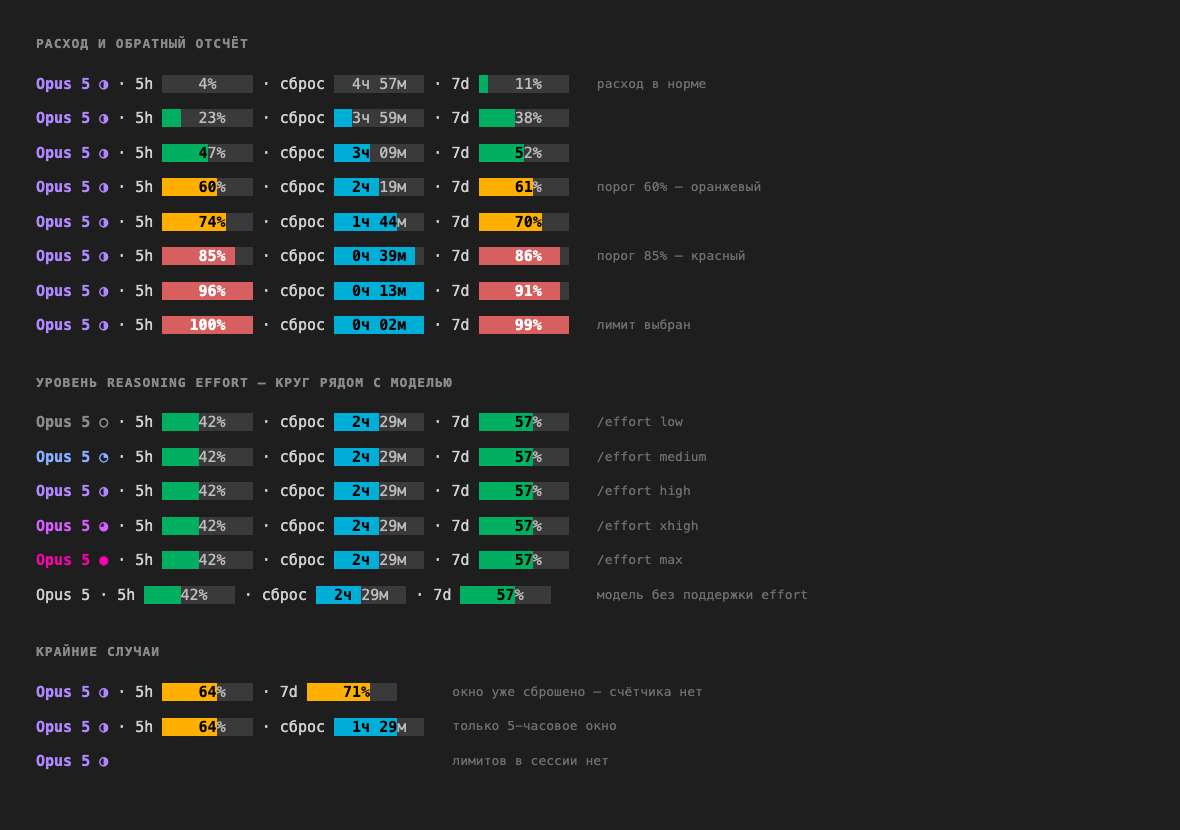
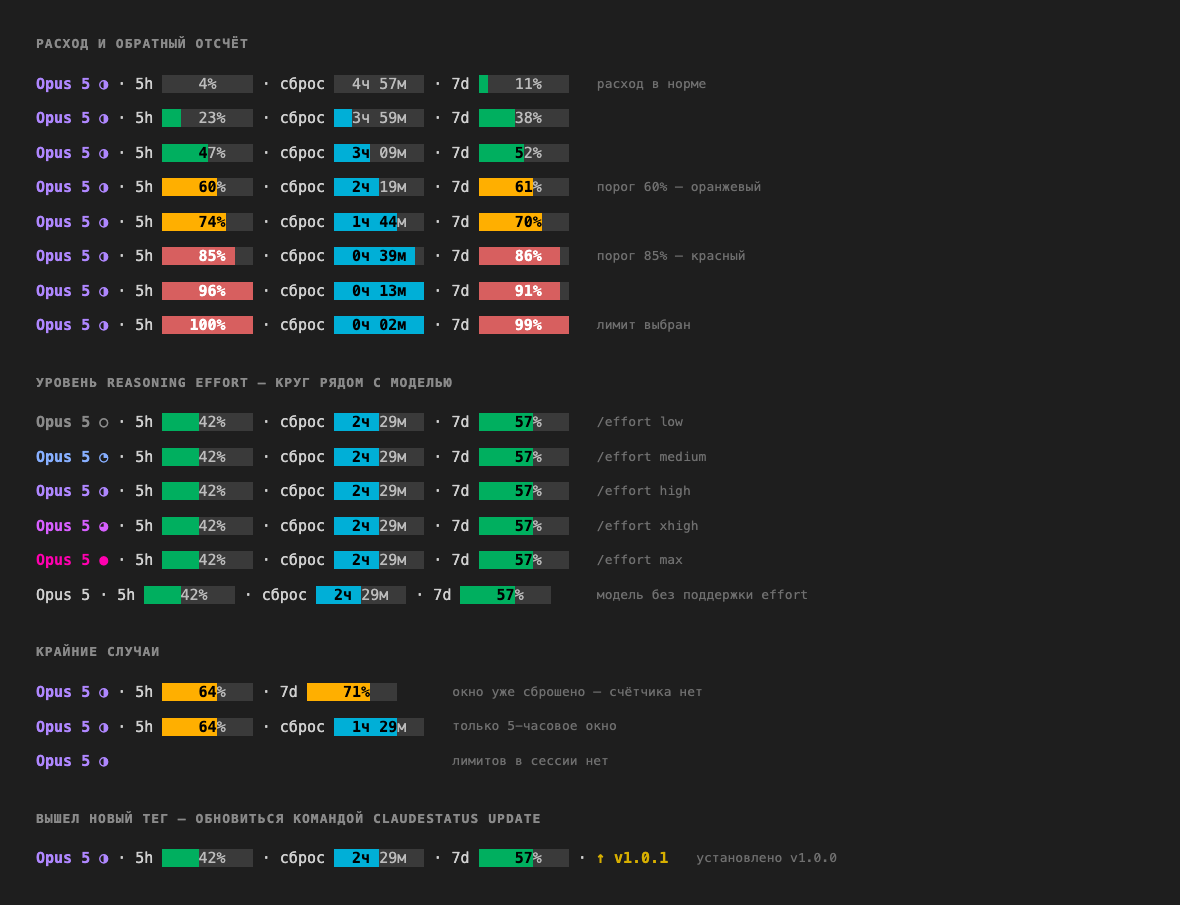
docs: показать в демо строку с новым тегом

diff --git a/docs/statusline-demo.html b/docs/statusline-demo.html
@@ -1,1 +1,1 @@
-<!doctype html><meta charset='utf-8'><title>Строка статуса — состояния</title><style>body{background:#1e1e1e;color:#d0d0d0;font:15px/1.9 'SF Mono',Menlo,monospace;padding:32px 36px;margin:0}h2{font-size:13px;font-weight:600;color:#8a8a8a;letter-spacing:.08em;text-transform:uppercase;margin:28px 0 10px}h2:first-child{margin-top:0}table{border-collapse:collapse}td{padding:3px 0;vertical-align:middle;white-space:nowrap}.note{color:#6f6f6f;font-size:13px;padding-left:28px}</style><h2>Расход и обратный отсчёт</h2><table><tr><td class="line"><span style="color:#af87ff;font-weight:700">Opus&nbsp;5&nbsp;◑</span>&nbsp;·&nbsp;5h&nbsp;<span style="color:#bcbcbc;background:#3a3a3a">&nbsp;&nbsp;&nbsp;&nbsp;4%&nbsp;&nbsp;&nbsp;&nbsp;</span>&nbsp;·&nbsp;сброс&nbsp;<span style="color:#bcbcbc;background:#3a3a3a">&nbsp;&nbsp;4ч&nbsp;57м&nbsp;&nbsp;</span>&nbsp;·&nbsp;7d&nbsp;<span style="color:#000000;background:#00af5f;font-weight:700">&nbsp;</span><span style="color:#bcbcbc;background:#3a3a3a">&nbsp;&nbsp;&nbsp;11%&nbsp;&nbsp;&nbsp;</span></td><td class="note">расход в норме</td></tr><tr><td class="line"><span style="color:#af87ff;font-weight:700">Opus&nbsp;5&nbsp;◑</span>&nbsp;·&nbsp;5h&nbsp;<span style="color:#000000;background:#00af5f;font-weight:700">&nbsp;&nbsp;</span><span style="color:#bcbcbc;background:#3a3a3a">&nbsp;&nbsp;23%&nbsp;&nbsp;&nbsp;</span>&nbsp;·&nbsp;сброс&nbsp;<span style="color:#000000;background:#00afd7;font-weight:700">&nbsp;&nbsp;</span><span style="color:#bcbcbc;background:#3a3a3a">3ч&nbsp;59м&nbsp;&nbsp;</span>&nbsp;·&nbsp;7d&nbsp;<span style="color:#000000;background:#00af5f;font-weight:700">&nbsp;&nbsp;&nbsp;&nbsp;</span><span style="color:#bcbcbc;background:#3a3a3a">38%&nbsp;&nbsp;&nbsp;</span></td><td class="note"></td></tr><tr><td class="line"><span style="color:#af87ff;font-weight:700">Opus&nbsp;5&nbsp;◑</span>&nbsp;·&nbsp;5h&nbsp;<span style="color:#000000;background:#00af5f;font-weight:700">&nbsp;&nbsp;&nbsp;&nbsp;4</span><span style="color:#bcbcbc;background:#3a3a3a">7%&nbsp;&nbsp;&nbsp;</span>&nbsp;·&nbsp;сброс&nbsp;<span style="color:#000000;background:#00afd7;font-weight:700">&nbsp;&nbsp;3ч</span><span style="color:#bcbcbc;background:#3a3a3a">&nbsp;09м&nbsp;&nbsp;</span>&nbsp;·&nbsp;7d&nbsp;<span style="color:#000000;background:#00af5f;font-weight:700">&nbsp;&nbsp;&nbsp;&nbsp;5</span><span style="color:#bcbcbc;background:#3a3a3a">2%&nbsp;&nbsp;&nbsp;</span></td><td class="note"></td></tr><tr><td class="line"><span style="color:#af87ff;font-weight:700">Opus&nbsp;5&nbsp;◑</span>&nbsp;·&nbsp;5h&nbsp;<span style="color:#000000;background:#ffaf00;font-weight:700">&nbsp;&nbsp;&nbsp;&nbsp;60</span><span style="color:#bcbcbc;background:#3a3a3a">%&nbsp;&nbsp;&nbsp;</span>&nbsp;·&nbsp;сброс&nbsp;<span style="color:#000000;background:#00afd7;font-weight:700">&nbsp;&nbsp;2ч&nbsp;</span><span style="color:#bcbcbc;background:#3a3a3a">19м&nbsp;&nbsp;</span>&nbsp;·&nbsp;7d&nbsp;<span style="color:#000000;background:#ffaf00;font-weight:700">&nbsp;&nbsp;&nbsp;&nbsp;61</span><span style="color:#bcbcbc;background:#3a3a3a">%&nbsp;&nbsp;&nbsp;</span></td><td class="note">порог 60% — оранжевый</td></tr><tr><td class="line"><span style="color:#af87ff;font-weight:700">Opus&nbsp;5&nbsp;◑</span>&nbsp;·&nbsp;5h&nbsp;<span style="color:#000000;background:#ffaf00;font-weight:700">&nbsp;&nbsp;&nbsp;&nbsp;74%</span><span style="color:#bcbcbc;background:#3a3a3a">&nbsp;&nbsp;&nbsp;</span>&nbsp;·&nbsp;сброс&nbsp;<span style="color:#000000;background:#00afd7;font-weight:700">&nbsp;&nbsp;1ч&nbsp;44</span><span style="color:#bcbcbc;background:#3a3a3a">м&nbsp;&nbsp;</span>&nbsp;·&nbsp;7d&nbsp;<span style="color:#000000;background:#ffaf00;font-weight:700">&nbsp;&nbsp;&nbsp;&nbsp;70%</span><span style="color:#bcbcbc;background:#3a3a3a">&nbsp;&nbsp;&nbsp;</span></td><td class="note"></td></tr><tr><td class="line"><span style="color:#af87ff;font-weight:700">Opus&nbsp;5&nbsp;◑</span>&nbsp;·&nbsp;5h&nbsp;<span style="color:#ffffff;background:#d75f5f;font-weight:700">&nbsp;&nbsp;&nbsp;&nbsp;85%&nbsp;</span><span style="color:#bcbcbc;background:#3a3a3a">&nbsp;&nbsp;</span>&nbsp;·&nbsp;сброс&nbsp;<span style="color:#000000;background:#00afd7;font-weight:700">&nbsp;&nbsp;0ч&nbsp;39м&nbsp;</span><span style="color:#bcbcbc;background:#3a3a3a">&nbsp;</span>&nbsp;·&nbsp;7d&nbsp;<span style="color:#ffffff;background:#d75f5f;font-weight:700">&nbsp;&nbsp;&nbsp;&nbsp;86%&nbsp;&nbsp;</span><span style="color:#bcbcbc;background:#3a3a3a">&nbsp;</span></td><td class="note">порог 85% — красный</td></tr><tr><td class="line"><span style="color:#af87ff;font-weight:700">Opus&nbsp;5&nbsp;◑</span>&nbsp;·&nbsp;5h&nbsp;<span style="color:#ffffff;background:#d75f5f;font-weight:700">&nbsp;&nbsp;&nbsp;&nbsp;96%&nbsp;&nbsp;&nbsp;</span>&nbsp;·&nbsp;сброс&nbsp;<span style="color:#000000;background:#00afd7;font-weight:700">&nbsp;&nbsp;0ч&nbsp;13м&nbsp;&nbsp;</span>&nbsp;·&nbsp;7d&nbsp;<span style="color:#ffffff;background:#d75f5f;font-weight:700">&nbsp;&nbsp;&nbsp;&nbsp;91%&nbsp;&nbsp;</span><span style="color:#bcbcbc;background:#3a3a3a">&nbsp;</span></td><td class="note"></td></tr><tr><td class="line"><span style="color:#af87ff;font-weight:700">Opus&nbsp;5&nbsp;◑</span>&nbsp;·&nbsp;5h&nbsp;<span style="color:#ffffff;background:#d75f5f;font-weight:700">&nbsp;&nbsp;&nbsp;100%&nbsp;&nbsp;&nbsp;</span>&nbsp;·&nbsp;сброс&nbsp;<span style="color:#000000;background:#00afd7;font-weight:700">&nbsp;&nbsp;0ч&nbsp;02м&nbsp;&nbsp;</span>&nbsp;·&nbsp;7d&nbsp;<span style="color:#ffffff;background:#d75f5f;font-weight:700">&nbsp;&nbsp;&nbsp;&nbsp;99%&nbsp;&nbsp;&nbsp;</span></td><td class="note">лимит выбран</td></tr></table><h2>Уровень reasoning effort — круг рядом с моделью</h2><table><tr><td class="line"><span style="color:#8a8a8a;font-weight:700">Opus&nbsp;5&nbsp;○</span>&nbsp;·&nbsp;5h&nbsp;<span style="color:#000000;background:#00af5f;font-weight:700">&nbsp;&nbsp;&nbsp;&nbsp;</span><span style="color:#bcbcbc;background:#3a3a3a">42%&nbsp;&nbsp;&nbsp;</span>&nbsp;·&nbsp;сброс&nbsp;<span style="color:#000000;background:#00afd7;font-weight:700">&nbsp;&nbsp;2ч&nbsp;</span><span style="color:#bcbcbc;background:#3a3a3a">29м&nbsp;&nbsp;</span>&nbsp;·&nbsp;7d&nbsp;<span style="color:#000000;background:#00af5f;font-weight:700">&nbsp;&nbsp;&nbsp;&nbsp;57</span><span style="color:#bcbcbc;background:#3a3a3a">%&nbsp;&nbsp;&nbsp;</span></td><td class="note">/effort low</td></tr><tr><td class="line"><span style="color:#87afff;font-weight:700">Opus&nbsp;5&nbsp;◔</span>&nbsp;·&nbsp;5h&nbsp;<span style="color:#000000;background:#00af5f;font-weight:700">&nbsp;&nbsp;&nbsp;&nbsp;</span><span style="color:#bcbcbc;background:#3a3a3a">42%&nbsp;&nbsp;&nbsp;</span>&nbsp;·&nbsp;сброс&nbsp;<span style="color:#000000;background:#00afd7;font-weight:700">&nbsp;&nbsp;2ч&nbsp;</span><span style="color:#bcbcbc;background:#3a3a3a">29м&nbsp;&nbsp;</span>&nbsp;·&nbsp;7d&nbsp;<span style="color:#000000;background:#00af5f;font-weight:700">&nbsp;&nbsp;&nbsp;&nbsp;57</span><span style="color:#bcbcbc;background:#3a3a3a">%&nbsp;&nbsp;&nbsp;</span></td><td class="note">/effort medium</td></tr><tr><td class="line"><span style="color:#af87ff;font-weight:700">Opus&nbsp;5&nbsp;◑</span>&nbsp;·&nbsp;5h&nbsp;<span style="color:#000000;background:#00af5f;font-weight:700">&nbsp;&nbsp;&nbsp;&nbsp;</span><span style="color:#bcbcbc;background:#3a3a3a">42%&nbsp;&nbsp;&nbsp;</span>&nbsp;·&nbsp;сброс&nbsp;<span style="color:#000000;background:#00afd7;font-weight:700">&nbsp;&nbsp;2ч&nbsp;</span><span style="color:#bcbcbc;background:#3a3a3a">29м&nbsp;&nbsp;</span>&nbsp;·&nbsp;7d&nbsp;<span style="color:#000000;background:#00af5f;font-weight:700">&nbsp;&nbsp;&nbsp;&nbsp;57</span><span style="color:#bcbcbc;background:#3a3a3a">%&nbsp;&nbsp;&nbsp;</span></td><td class="note">/effort high</td></tr><tr><td class="line"><span style="color:#d75fff;font-weight:700">Opus&nbsp;5&nbsp;◕</span>&nbsp;·&nbsp;5h&nbsp;<span style="color:#000000;background:#00af5f;font-weight:700">&nbsp;&nbsp;&nbsp;&nbsp;</span><span style="color:#bcbcbc;background:#3a3a3a">42%&nbsp;&nbsp;&nbsp;</span>&nbsp;·&nbsp;сброс&nbsp;<span style="color:#000000;background:#00afd7;font-weight:700">&nbsp;&nbsp;2ч&nbsp;</span><span style="color:#bcbcbc;background:#3a3a3a">29м&nbsp;&nbsp;</span>&nbsp;·&nbsp;7d&nbsp;<span style="color:#000000;background:#00af5f;font-weight:700">&nbsp;&nbsp;&nbsp;&nbsp;57</span><span style="color:#bcbcbc;background:#3a3a3a">%&nbsp;&nbsp;&nbsp;</span></td><td class="note">/effort xhigh</td></tr><tr><td class="line"><span style="color:#ff00af;font-weight:700">Opus&nbsp;5&nbsp;●</span>&nbsp;·&nbsp;5h&nbsp;<span style="color:#000000;background:#00af5f;font-weight:700">&nbsp;&nbsp;&nbsp;&nbsp;</span><span style="color:#bcbcbc;background:#3a3a3a">42%&nbsp;&nbsp;&nbsp;</span>&nbsp;·&nbsp;сброс&nbsp;<span style="color:#000000;background:#00afd7;font-weight:700">&nbsp;&nbsp;2ч&nbsp;</span><span style="color:#bcbcbc;background:#3a3a3a">29м&nbsp;&nbsp;</span>&nbsp;·&nbsp;7d&nbsp;<span style="color:#000000;background:#00af5f;font-weight:700">&nbsp;&nbsp;&nbsp;&nbsp;57</span><span style="color:#bcbcbc;background:#3a3a3a">%&nbsp;&nbsp;&nbsp;</span></td><td class="note">/effort max</td></tr><tr><td class="line">Opus&nbsp;5&nbsp;·&nbsp;5h&nbsp;<span style="color:#000000;background:#00af5f;font-weight:700">&nbsp;&nbsp;&nbsp;&nbsp;</span><span style="color:#bcbcbc;background:#3a3a3a">42%&nbsp;&nbsp;&nbsp;</span>&nbsp;·&nbsp;сброс&nbsp;<span style="color:#000000;background:#00afd7;font-weight:700">&nbsp;&nbsp;2ч&nbsp;</span><span style="color:#bcbcbc;background:#3a3a3a">29м&nbsp;&nbsp;</span>&nbsp;·&nbsp;7d&nbsp;<span style="color:#000000;background:#00af5f;font-weight:700">&nbsp;&nbsp;&nbsp;&nbsp;57</span><span style="color:#bcbcbc;background:#3a3a3a">%&nbsp;&nbsp;&nbsp;</span></td><td class="note">модель без поддержки effort</td></tr></table><h2>Крайние случаи</h2><table><tr><td class="line"><span style="color:#af87ff;font-weight:700">Opus&nbsp;5&nbsp;◑</span>&nbsp;·&nbsp;5h&nbsp;<span style="color:#000000;background:#ffaf00;font-weight:700">&nbsp;&nbsp;&nbsp;&nbsp;64</span><span style="color:#bcbcbc;background:#3a3a3a">%&nbsp;&nbsp;&nbsp;</span>&nbsp;·&nbsp;7d&nbsp;<span style="color:#000000;background:#ffaf00;font-weight:700">&nbsp;&nbsp;&nbsp;&nbsp;71%</span><span style="color:#bcbcbc;background:#3a3a3a">&nbsp;&nbsp;&nbsp;</span></td><td class="note">окно уже сброшено — счётчика нет</td></tr><tr><td class="line"><span style="color:#af87ff;font-weight:700">Opus&nbsp;5&nbsp;◑</span>&nbsp;·&nbsp;5h&nbsp;<span style="color:#000000;background:#ffaf00;font-weight:700">&nbsp;&nbsp;&nbsp;&nbsp;64</span><span style="color:#bcbcbc;background:#3a3a3a">%&nbsp;&nbsp;&nbsp;</span>&nbsp;·&nbsp;сброс&nbsp;<span style="color:#000000;background:#00afd7;font-weight:700">&nbsp;&nbsp;1ч&nbsp;29</span><span style="color:#bcbcbc;background:#3a3a3a">м&nbsp;&nbsp;</span></td><td class="note">только 5-часовое окно</td></tr><tr><td class="line"><span style="color:#af87ff;font-weight:700">Opus&nbsp;5&nbsp;◑</span></td><td class="note">лимитов в сессии нет</td></tr></table>
+<!doctype html><meta charset='utf-8'><title>Строка статуса — состояния</title><style>body{background:#1e1e1e;color:#d0d0d0;font:15px/1.9 'SF Mono',Menlo,monospace;padding:32px 36px;margin:0}h2{font-size:13px;font-weight:600;color:#8a8a8a;letter-spacing:.08em;text-transform:uppercase;margin:28px 0 10px}h2:first-child{margin-top:0}table{border-collapse:collapse}td{padding:3px 0;vertical-align:middle;white-space:nowrap}.note{color:#6f6f6f;font-size:13px;padding-left:28px}</style><h2>Расход и обратный отсчёт</h2><table><tr><td class="line"><span style="color:#af87ff;font-weight:700">Opus&nbsp;5&nbsp;◑</span>&nbsp;·&nbsp;5h&nbsp;<span style="color:#bcbcbc;background:#3a3a3a">&nbsp;&nbsp;&nbsp;&nbsp;4%&nbsp;&nbsp;&nbsp;&nbsp;</span>&nbsp;·&nbsp;сброс&nbsp;<span style="color:#bcbcbc;background:#3a3a3a">&nbsp;&nbsp;4ч&nbsp;57м&nbsp;&nbsp;</span>&nbsp;·&nbsp;7d&nbsp;<span style="color:#000000;background:#00af5f;font-weight:700">&nbsp;</span><span style="color:#bcbcbc;background:#3a3a3a">&nbsp;&nbsp;&nbsp;11%&nbsp;&nbsp;&nbsp;</span></td><td class="note">расход в норме</td></tr><tr><td class="line"><span style="color:#af87ff;font-weight:700">Opus&nbsp;5&nbsp;◑</span>&nbsp;·&nbsp;5h&nbsp;<span style="color:#000000;background:#00af5f;font-weight:700">&nbsp;&nbsp;</span><span style="color:#bcbcbc;background:#3a3a3a">&nbsp;&nbsp;23%&nbsp;&nbsp;&nbsp;</span>&nbsp;·&nbsp;сброс&nbsp;<span style="color:#000000;background:#00afd7;font-weight:700">&nbsp;&nbsp;</span><span style="color:#bcbcbc;background:#3a3a3a">3ч&nbsp;59м&nbsp;&nbsp;</span>&nbsp;·&nbsp;7d&nbsp;<span style="color:#000000;background:#00af5f;font-weight:700">&nbsp;&nbsp;&nbsp;&nbsp;</span><span style="color:#bcbcbc;background:#3a3a3a">38%&nbsp;&nbsp;&nbsp;</span></td><td class="note"></td></tr><tr><td class="line"><span style="color:#af87ff;font-weight:700">Opus&nbsp;5&nbsp;◑</span>&nbsp;·&nbsp;5h&nbsp;<span style="color:#000000;background:#00af5f;font-weight:700">&nbsp;&nbsp;&nbsp;&nbsp;4</span><span style="color:#bcbcbc;background:#3a3a3a">7%&nbsp;&nbsp;&nbsp;</span>&nbsp;·&nbsp;сброс&nbsp;<span style="color:#000000;background:#00afd7;font-weight:700">&nbsp;&nbsp;3ч</span><span style="color:#bcbcbc;background:#3a3a3a">&nbsp;09м&nbsp;&nbsp;</span>&nbsp;·&nbsp;7d&nbsp;<span style="color:#000000;background:#00af5f;font-weight:700">&nbsp;&nbsp;&nbsp;&nbsp;5</span><span style="color:#bcbcbc;background:#3a3a3a">2%&nbsp;&nbsp;&nbsp;</span></td><td class="note"></td></tr><tr><td class="line"><span style="color:#af87ff;font-weight:700">Opus&nbsp;5&nbsp;◑</span>&nbsp;·&nbsp;5h&nbsp;<span style="color:#000000;background:#ffaf00;font-weight:700">&nbsp;&nbsp;&nbsp;&nbsp;60</span><span style="color:#bcbcbc;background:#3a3a3a">%&nbsp;&nbsp;&nbsp;</span>&nbsp;·&nbsp;сброс&nbsp;<span style="color:#000000;background:#00afd7;font-weight:700">&nbsp;&nbsp;2ч&nbsp;</span><span style="color:#bcbcbc;background:#3a3a3a">19м&nbsp;&nbsp;</span>&nbsp;·&nbsp;7d&nbsp;<span style="color:#000000;background:#ffaf00;font-weight:700">&nbsp;&nbsp;&nbsp;&nbsp;61</span><span style="color:#bcbcbc;background:#3a3a3a">%&nbsp;&nbsp;&nbsp;</span></td><td class="note">порог 60% — оранжевый</td></tr><tr><td class="line"><span style="color:#af87ff;font-weight:700">Opus&nbsp;5&nbsp;◑</span>&nbsp;·&nbsp;5h&nbsp;<span style="color:#000000;background:#ffaf00;font-weight:700">&nbsp;&nbsp;&nbsp;&nbsp;74%</span><span style="color:#bcbcbc;background:#3a3a3a">&nbsp;&nbsp;&nbsp;</span>&nbsp;·&nbsp;сброс&nbsp;<span style="color:#000000;background:#00afd7;font-weight:700">&nbsp;&nbsp;1ч&nbsp;44</span><span style="color:#bcbcbc;background:#3a3a3a">м&nbsp;&nbsp;</span>&nbsp;·&nbsp;7d&nbsp;<span style="color:#000000;background:#ffaf00;font-weight:700">&nbsp;&nbsp;&nbsp;&nbsp;70%</span><span style="color:#bcbcbc;background:#3a3a3a">&nbsp;&nbsp;&nbsp;</span></td><td class="note"></td></tr><tr><td class="line"><span style="color:#af87ff;font-weight:700">Opus&nbsp;5&nbsp;◑</span>&nbsp;·&nbsp;5h&nbsp;<span style="color:#ffffff;background:#d75f5f;font-weight:700">&nbsp;&nbsp;&nbsp;&nbsp;85%&nbsp;</span><span style="color:#bcbcbc;background:#3a3a3a">&nbsp;&nbsp;</span>&nbsp;·&nbsp;сброс&nbsp;<span style="color:#000000;background:#00afd7;font-weight:700">&nbsp;&nbsp;0ч&nbsp;39м&nbsp;</span><span style="color:#bcbcbc;background:#3a3a3a">&nbsp;</span>&nbsp;·&nbsp;7d&nbsp;<span style="color:#ffffff;background:#d75f5f;font-weight:700">&nbsp;&nbsp;&nbsp;&nbsp;86%&nbsp;&nbsp;</span><span style="color:#bcbcbc;background:#3a3a3a">&nbsp;</span></td><td class="note">порог 85% — красный</td></tr><tr><td class="line"><span style="color:#af87ff;font-weight:700">Opus&nbsp;5&nbsp;◑</span>&nbsp;·&nbsp;5h&nbsp;<span style="color:#ffffff;background:#d75f5f;font-weight:700">&nbsp;&nbsp;&nbsp;&nbsp;96%&nbsp;&nbsp;&nbsp;</span>&nbsp;·&nbsp;сброс&nbsp;<span style="color:#000000;background:#00afd7;font-weight:700">&nbsp;&nbsp;0ч&nbsp;13м&nbsp;&nbsp;</span>&nbsp;·&nbsp;7d&nbsp;<span style="color:#ffffff;background:#d75f5f;font-weight:700">&nbsp;&nbsp;&nbsp;&nbsp;91%&nbsp;&nbsp;</span><span style="color:#bcbcbc;background:#3a3a3a">&nbsp;</span></td><td class="note"></td></tr><tr><td class="line"><span style="color:#af87ff;font-weight:700">Opus&nbsp;5&nbsp;◑</span>&nbsp;·&nbsp;5h&nbsp;<span style="color:#ffffff;background:#d75f5f;font-weight:700">&nbsp;&nbsp;&nbsp;100%&nbsp;&nbsp;&nbsp;</span>&nbsp;·&nbsp;сброс&nbsp;<span style="color:#000000;background:#00afd7;font-weight:700">&nbsp;&nbsp;0ч&nbsp;02м&nbsp;&nbsp;</span>&nbsp;·&nbsp;7d&nbsp;<span style="color:#ffffff;background:#d75f5f;font-weight:700">&nbsp;&nbsp;&nbsp;&nbsp;99%&nbsp;&nbsp;&nbsp;</span></td><td class="note">лимит выбран</td></tr></table><h2>Уровень reasoning effort — круг рядом с моделью</h2><table><tr><td class="line"><span style="color:#8a8a8a;font-weight:700">Opus&nbsp;5&nbsp;○</span>&nbsp;·&nbsp;5h&nbsp;<span style="color:#000000;background:#00af5f;font-weight:700">&nbsp;&nbsp;&nbsp;&nbsp;</span><span style="color:#bcbcbc;background:#3a3a3a">42%&nbsp;&nbsp;&nbsp;</span>&nbsp;·&nbsp;сброс&nbsp;<span style="color:#000000;background:#00afd7;font-weight:700">&nbsp;&nbsp;2ч&nbsp;</span><span style="color:#bcbcbc;background:#3a3a3a">29м&nbsp;&nbsp;</span>&nbsp;·&nbsp;7d&nbsp;<span style="color:#000000;background:#00af5f;font-weight:700">&nbsp;&nbsp;&nbsp;&nbsp;57</span><span style="color:#bcbcbc;background:#3a3a3a">%&nbsp;&nbsp;&nbsp;</span></td><td class="note">/effort low</td></tr><tr><td class="line"><span style="color:#87afff;font-weight:700">Opus&nbsp;5&nbsp;◔</span>&nbsp;·&nbsp;5h&nbsp;<span style="color:#000000;background:#00af5f;font-weight:700">&nbsp;&nbsp;&nbsp;&nbsp;</span><span style="color:#bcbcbc;background:#3a3a3a">42%&nbsp;&nbsp;&nbsp;</span>&nbsp;·&nbsp;сброс&nbsp;<span style="color:#000000;background:#00afd7;font-weight:700">&nbsp;&nbsp;2ч&nbsp;</span><span style="color:#bcbcbc;background:#3a3a3a">29м&nbsp;&nbsp;</span>&nbsp;·&nbsp;7d&nbsp;<span style="color:#000000;background:#00af5f;font-weight:700">&nbsp;&nbsp;&nbsp;&nbsp;57</span><span style="color:#bcbcbc;background:#3a3a3a">%&nbsp;&nbsp;&nbsp;</span></td><td class="note">/effort medium</td></tr><tr><td class="line"><span style="color:#af87ff;font-weight:700">Opus&nbsp;5&nbsp;◑</span>&nbsp;·&nbsp;5h&nbsp;<span style="color:#000000;background:#00af5f;font-weight:700">&nbsp;&nbsp;&nbsp;&nbsp;</span><span style="color:#bcbcbc;background:#3a3a3a">42%&nbsp;&nbsp;&nbsp;</span>&nbsp;·&nbsp;сброс&nbsp;<span style="color:#000000;background:#00afd7;font-weight:700">&nbsp;&nbsp;2ч&nbsp;</span><span style="color:#bcbcbc;background:#3a3a3a">29м&nbsp;&nbsp;</span>&nbsp;·&nbsp;7d&nbsp;<span style="color:#000000;background:#00af5f;font-weight:700">&nbsp;&nbsp;&nbsp;&nbsp;57</span><span style="color:#bcbcbc;background:#3a3a3a">%&nbsp;&nbsp;&nbsp;</span></td><td class="note">/effort high</td></tr><tr><td class="line"><span style="color:#d75fff;font-weight:700">Opus&nbsp;5&nbsp;◕</span>&nbsp;·&nbsp;5h&nbsp;<span style="color:#000000;background:#00af5f;font-weight:700">&nbsp;&nbsp;&nbsp;&nbsp;</span><span style="color:#bcbcbc;background:#3a3a3a">42%&nbsp;&nbsp;&nbsp;</span>&nbsp;·&nbsp;сброс&nbsp;<span style="color:#000000;background:#00afd7;font-weight:700">&nbsp;&nbsp;2ч&nbsp;</span><span style="color:#bcbcbc;background:#3a3a3a">29м&nbsp;&nbsp;</span>&nbsp;·&nbsp;7d&nbsp;<span style="color:#000000;background:#00af5f;font-weight:700">&nbsp;&nbsp;&nbsp;&nbsp;57</span><span style="color:#bcbcbc;background:#3a3a3a">%&nbsp;&nbsp;&nbsp;</span></td><td class="note">/effort xhigh</td></tr><tr><td class="line"><span style="color:#ff00af;font-weight:700">Opus&nbsp;5&nbsp;●</span>&nbsp;·&nbsp;5h&nbsp;<span style="color:#000000;background:#00af5f;font-weight:700">&nbsp;&nbsp;&nbsp;&nbsp;</span><span style="color:#bcbcbc;background:#3a3a3a">42%&nbsp;&nbsp;&nbsp;</span>&nbsp;·&nbsp;сброс&nbsp;<span style="color:#000000;background:#00afd7;font-weight:700">&nbsp;&nbsp;2ч&nbsp;</span><span style="color:#bcbcbc;background:#3a3a3a">29м&nbsp;&nbsp;</span>&nbsp;·&nbsp;7d&nbsp;<span style="color:#000000;background:#00af5f;font-weight:700">&nbsp;&nbsp;&nbsp;&nbsp;57</span><span style="color:#bcbcbc;background:#3a3a3a">%&nbsp;&nbsp;&nbsp;</span></td><td class="note">/effort max</td></tr><tr><td class="line">Opus&nbsp;5&nbsp;·&nbsp;5h&nbsp;<span style="color:#000000;background:#00af5f;font-weight:700">&nbsp;&nbsp;&nbsp;&nbsp;</span><span style="color:#bcbcbc;background:#3a3a3a">42%&nbsp;&nbsp;&nbsp;</span>&nbsp;·&nbsp;сброс&nbsp;<span style="color:#000000;background:#00afd7;font-weight:700">&nbsp;&nbsp;2ч&nbsp;</span><span style="color:#bcbcbc;background:#3a3a3a">29м&nbsp;&nbsp;</span>&nbsp;·&nbsp;7d&nbsp;<span style="color:#000000;background:#00af5f;font-weight:700">&nbsp;&nbsp;&nbsp;&nbsp;57</span><span style="color:#bcbcbc;background:#3a3a3a">%&nbsp;&nbsp;&nbsp;</span></td><td class="note">модель без поддержки effort</td></tr></table><h2>Крайние случаи</h2><table><tr><td class="line"><span style="color:#af87ff;font-weight:700">Opus&nbsp;5&nbsp;◑</span>&nbsp;·&nbsp;5h&nbsp;<span style="color:#000000;background:#ffaf00;font-weight:700">&nbsp;&nbsp;&nbsp;&nbsp;64</span><span style="color:#bcbcbc;background:#3a3a3a">%&nbsp;&nbsp;&nbsp;</span>&nbsp;·&nbsp;7d&nbsp;<span style="color:#000000;background:#ffaf00;font-weight:700">&nbsp;&nbsp;&nbsp;&nbsp;71%</span><span style="color:#bcbcbc;background:#3a3a3a">&nbsp;&nbsp;&nbsp;</span></td><td class="note">окно уже сброшено — счётчика нет</td></tr><tr><td class="line"><span style="color:#af87ff;font-weight:700">Opus&nbsp;5&nbsp;◑</span>&nbsp;·&nbsp;5h&nbsp;<span style="color:#000000;background:#ffaf00;font-weight:700">&nbsp;&nbsp;&nbsp;&nbsp;64</span><span style="color:#bcbcbc;background:#3a3a3a">%&nbsp;&nbsp;&nbsp;</span>&nbsp;·&nbsp;сброс&nbsp;<span style="color:#000000;background:#00afd7;font-weight:700">&nbsp;&nbsp;1ч&nbsp;29</span><span style="color:#bcbcbc;background:#3a3a3a">м&nbsp;&nbsp;</span></td><td class="note">только 5-часовое окно</td></tr><tr><td class="line"><span style="color:#af87ff;font-weight:700">Opus&nbsp;5&nbsp;◑</span></td><td class="note">лимитов в сессии нет</td></tr></table><h2>Вышел новый тег — обновиться командой claudestatus update</h2><table><tr><td class="line"><span style="color:#af87ff;font-weight:700">Opus&nbsp;5&nbsp;◑</span>&nbsp;·&nbsp;5h&nbsp;<span style="color:#000000;background:#00af5f;font-weight:700">&nbsp;&nbsp;&nbsp;&nbsp;</span><span style="color:#bcbcbc;background:#3a3a3a">42%&nbsp;&nbsp;&nbsp;</span>&nbsp;·&nbsp;сброс&nbsp;<span style="color:#000000;background:#00afd7;font-weight:700">&nbsp;&nbsp;2ч&nbsp;</span><span style="color:#bcbcbc;background:#3a3a3a">29м&nbsp;&nbsp;</span>&nbsp;·&nbsp;7d&nbsp;<span style="color:#000000;background:#00af5f;font-weight:700">&nbsp;&nbsp;&nbsp;&nbsp;57</span><span style="color:#bcbcbc;background:#3a3a3a">%&nbsp;&nbsp;&nbsp;</span>&nbsp;·&nbsp;<span style="color:#d7af00;font-weight:700">↑&nbsp;v1.0.1</span></td><td class="note">установлено v1.0.0</td></tr></table>

diff --git a/docs/render-demo.py b/docs/render-demo.py
@@ -9,6 +9,7 @@
 
 import html
 import json
+import os
 import pathlib
 import re
 import shutil
@@ -101,18 +102,35 @@ def ansi_to_html(line: str) -> str:
     return "".join(chunks)
 
 
-def build_writer() -> pathlib.Path:
-    binary = pathlib.Path(tempfile.mkdtemp()) / "claude-statusline"
+def build_writer(pending_tag: str | None = None) -> pathlib.Path:
+    """Собирает бинарь в поддельном клоне: строке статуса хватает .git рядом.
+
+    С pending_tag рядом кладётся готовый кэш проверки — так рисуется состояние
+    «вышло обновление», без единого запроса в сеть.
+    """
+    root = pathlib.Path(tempfile.mkdtemp())
+    (root / ".git").mkdir()
+    (root / "bin").mkdir()
+
+    binary = root / "bin" / "claudestatus"
     subprocess.run(
-        ["go", "build", "-o", str(binary), "."],
-        cwd=ROOT / "statusline", check=True,
+        ["go", "build", "-ldflags", "-X main.version=v1.0.0", "-o", str(binary), "."],
+        cwd=ROOT / "claudestatus", check=True,
     )
+
+    if pending_tag:
+        (root / "bin" / "update-check.json").write_text(
+            json.dumps({"checked_at": int(time.time()), "latest": pending_tag})
+        )
+
     return binary
 
 
 def render(binary: pathlib.Path, payload: dict) -> str:
     result = subprocess.run(
         [str(binary)], input=json.dumps(payload), capture_output=True, text=True,
+        # Фоновая проверка на каждый рендер ни к чему: теги здесь и так заданы.
+        env={**os.environ, "CLAUDESTATUS_NO_AUTO_UPDATE": "1"},
     )
     return result.stdout.rstrip("\n")
 
@@ -163,11 +181,16 @@ def main() -> None:
     ]
     sections.append(("Крайние случаи", edges))
 
+    pending = build_writer(pending_tag="v1.0.1")
+    sections.append(("Вышел новый тег — обновиться командой claudestatus update", [
+        ("установлено v1.0.0", session(effort="high", five=42, week=57, left=2 * 3600 + 30 * 60), pending),
+    ]))
+
     blocks = []
     for title, rows in sections:
         items = []
-        for note, payload in rows:
-            line = ansi_to_html(render(binary, payload))
+        for note, payload, *writer in rows:
+            line = ansi_to_html(render(writer[0] if writer else binary, payload))
             items.append(f'<tr><td class="line">{line}</td><td class="note">{html.escape(note)}</td></tr>')
         blocks.append(f'<h2>{html.escape(title)}</h2><table>{"".join(items)}</table>')
 
@@ -187,7 +210,7 @@ def main() -> None:
         shot = pathlib.Path(tempfile.mkdtemp())
         subprocess.run(
             [CHROME, "--headless", "--disable-gpu", "--hide-scrollbars",
-             "--window-size=1180,830", f"--screenshot={OUT_PNG}", OUT_HTML.as_uri()],
+             "--window-size=1180,905", f"--screenshot={OUT_PNG}", OUT_HTML.as_uri()],
             capture_output=True, check=True, cwd=shot,
         )
         shutil.rmtree(shot, ignore_errors=True)
